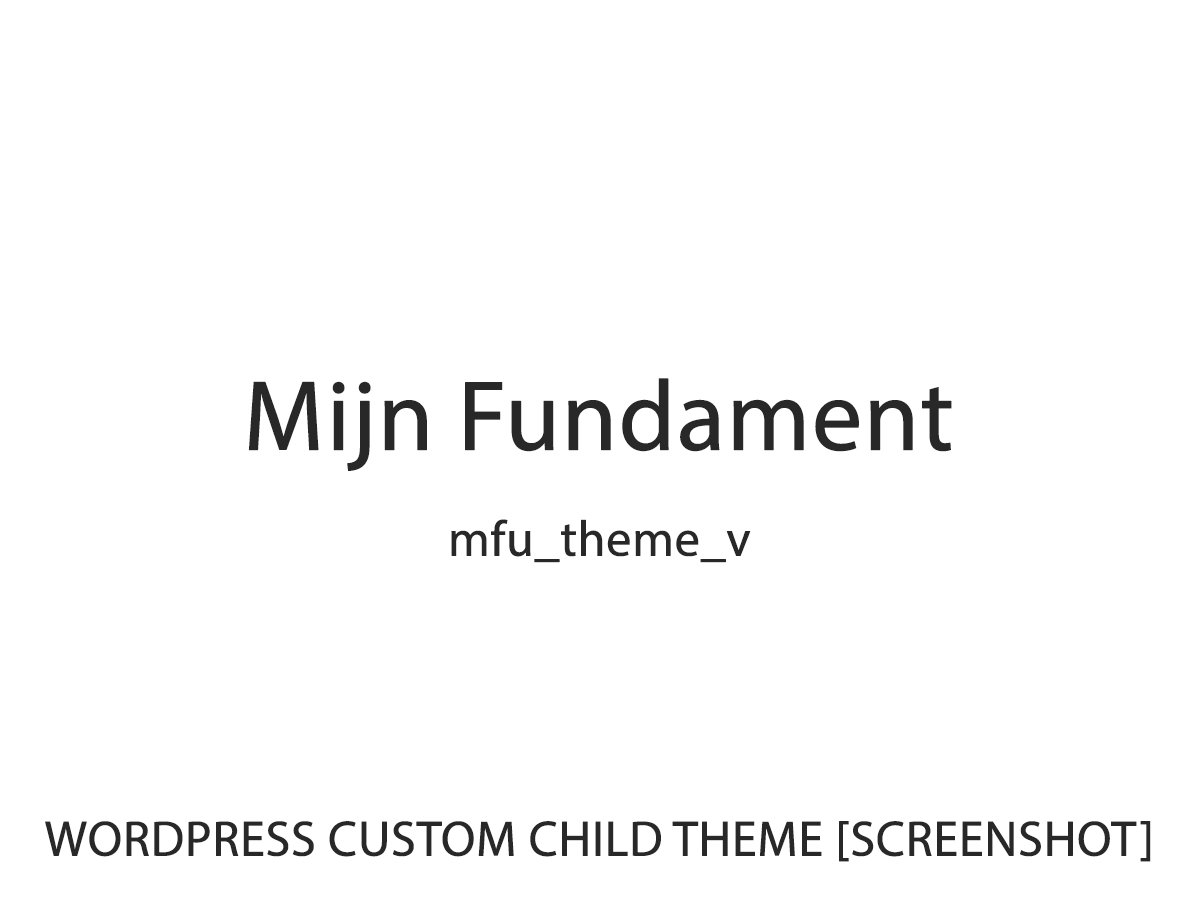
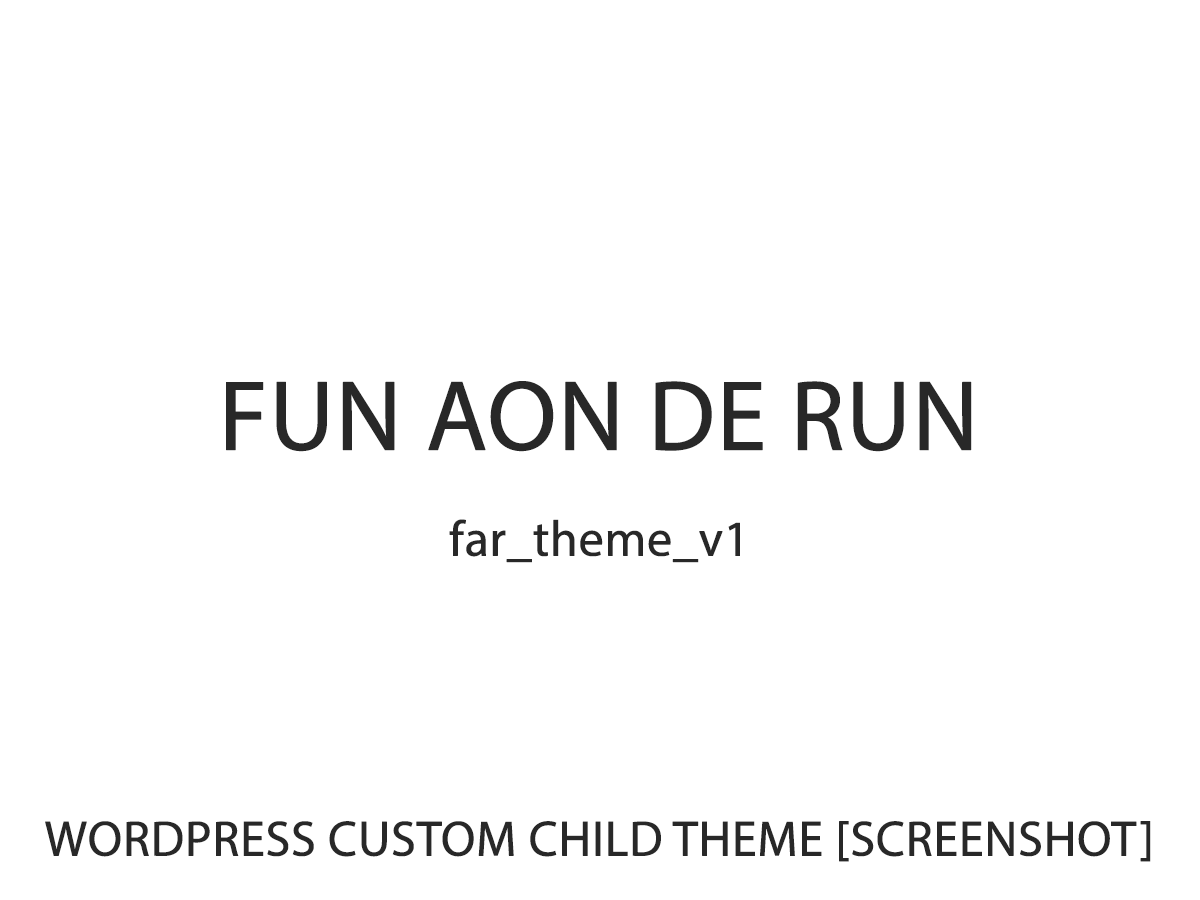
wp sanitize for theme

Changed region(s): [[0.185, 0.4044, 0.8325, 0.5289], [0.37, 0.56, 0.6475, 0.6533]]

diff --git a/style.css b/style.css
@@ -1,12 +1,12 @@
 /*
-Theme Name: wp_base_theme_v3
-Theme URI: wp_base_theme_v3
+Theme Name: far_theme_v1
+Theme URI: far_theme_v1
 Author: Red Rock Consutlancy
 Author URI: Red Rock Consutlancy
-Description: framework voor wp_base_theme_v3
+Description: far_theme_v1
 Version: 1
 License: GNU General Public License v2 or later
 License URI: http://www.gnu.org/licenses/gpl-2.0.html
-Text Domain: wp_base_theme_v3
-Tags: theme, v3
+Text Domain: far_theme_v1
+Tags: far, theme, fun, aon, run
 */

diff --git a/js/mfu.js b/js/mfu.js
@@ -1,5 +1,5 @@
 ////////////////////////
-/// (theme_name) js
+/// far js
 /// ////////////////////
 
 console.log("js start");

diff --git a/scss/mfu.scss b/scss/mfu.scss
@@ -1,4 +1,4 @@
 ////////////////////////
-/// (theme_name) scss
+/// far scss
 /// ////////////////////
 

diff --git a/inc/enqueue.php b/inc/enqueue.php
@@ -1,21 +1,21 @@
 <?php
 
 /*
-@package (theme_name)
+@package far
 =========================
 ADMIN ENQUEUE FUNCTIONS
 =========================
 */
 
 /* FRONT-END SCRIPTS */
-function (theme_name)_script_enqueue()
+function far_script_enqueue()
 {
     //fonts and icons
     wp_enqueue_style('Play', 'https://fonts.googleapis.com/css?family=Playfair+Display:400,700&display=swap" rel="stylesheet', false);
     //css
-    wp_enqueue_style('customstyle', get_template_directory_uri() . '/css/(theme_name).css', array(), '1.0', 'all');
+    wp_enqueue_style('customstyle', get_template_directory_uri() . '/css/far.css', array(), '1.0', 'all');
     //js
-    wp_enqueue_script('customjs', get_template_directory_uri() . '/js/(theme_name).js', array(), '1.0', true);
+    wp_enqueue_script('customjs', get_template_directory_uri() . '/js/far.js', array(), '1.0', true);
 }
 
-add_action('wp_enqueue_scripts', '(theme_name)_script_enqueue');
+add_action('wp_enqueue_scripts', 'far_script_enqueue');

diff --git a/inc/theme-support.php b/inc/theme-support.php
@@ -1,19 +1,19 @@
 <?php
 
 /*
-@package (theme_name)
+@package far
 =========================
 Theme Support Options
 =========================
 */
 
 /*MENUS */
-function (theme_name)_theme_setup()
+function far_theme_setup()
 {
   add_theme_support('menus');
   register_nav_menu('main', 'Main Menu');
 }
-add_action('init', '(theme_name)_theme_setup');
+add_action('init', 'far_theme_setup');
 
 /*POSTS and FORMATS*/
 add_theme_support('custom-background');

diff --git a/inc/cleanup.php b/inc/cleanup.php
@@ -1,7 +1,7 @@
 <?php
 
 /*
-@package (theme_name)
+@package far
 =========================
 REMOVE GENERATOR VERSION NUMBER
 =========================

diff --git a/functions.php b/functions.php
@@ -1,7 +1,7 @@
 <?php
 
 /*
-@package (theme_name)
+@package far
 =========================
 functions.php
 =========================

diff --git a/footer.php b/footer.php
@@ -1,6 +1,6 @@
 <?php
 /*
-@package (theme_name)
+@package far
 =========================
 footer.php
 =========================

diff --git a/header.php b/header.php
@@ -1,6 +1,6 @@
 <?php
 /*
-@package (theme_name)
+@package far
 =========================
 header.php
 =========================

diff --git a/page-notification.php b/page-notification.php
@@ -1,6 +1,6 @@
 <?php
 /*
-@package (theme_name)
+@package far
 =========================
 page-notification.php
 

diff --git a/front-page.php b/front-page.php
@@ -1,6 +1,6 @@
 <?php
 /*
-@package (theme_name)
+@package far
 =========================
 front-page.php
 

diff --git a/single.php b/single.php
@@ -1,6 +1,6 @@
 <?php
 /*
-@package (theme_name)
+@package far
 =========================
 single.php
 
